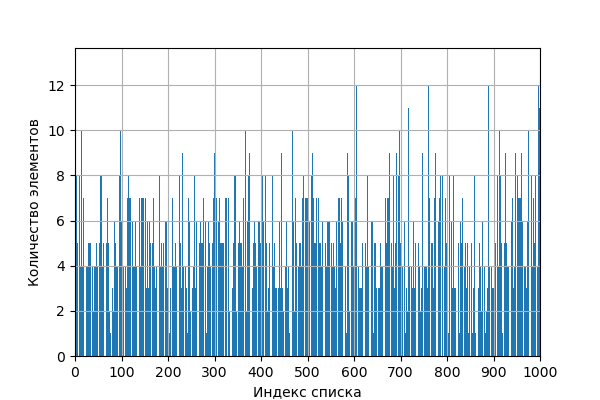
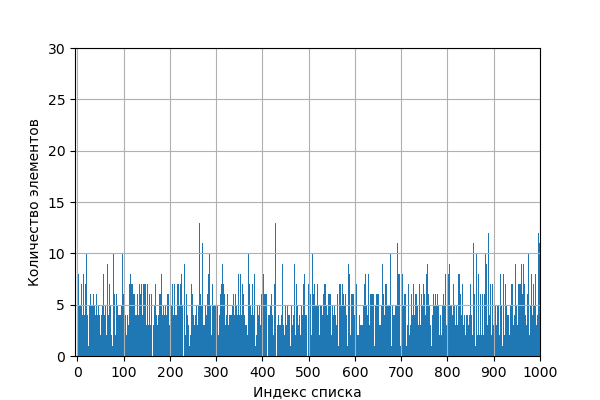
resize bars

diff --git a/src/make_bar.py b/src/make_bar.py
@@ -14,15 +14,17 @@ with open( "res/output_" + post_file_name + ".csv", "r" ) as f:
 x = [i for i in range( len( data ) )]
 
 xmax = 1000
+ymax = 30
 
 print( np.var( data ) )
 
-plt.xlim  ( 0, xmax )
+plt.xlim  ( -5, xmax )
+plt.ylim  (  0, ymax )
 plt.xticks( [i for i in range( 0, xmax + 1, 100 )] )
 plt.xlabel( "Индекс списка" )
 plt.ylabel( "Количество элементов" )
 
-ax.bar( x, data )
+ax.bar( x, data, width = 1 )
 plt.grid()
 
 fig.savefig( "res/bar_" + post_file_name + ".png" )
